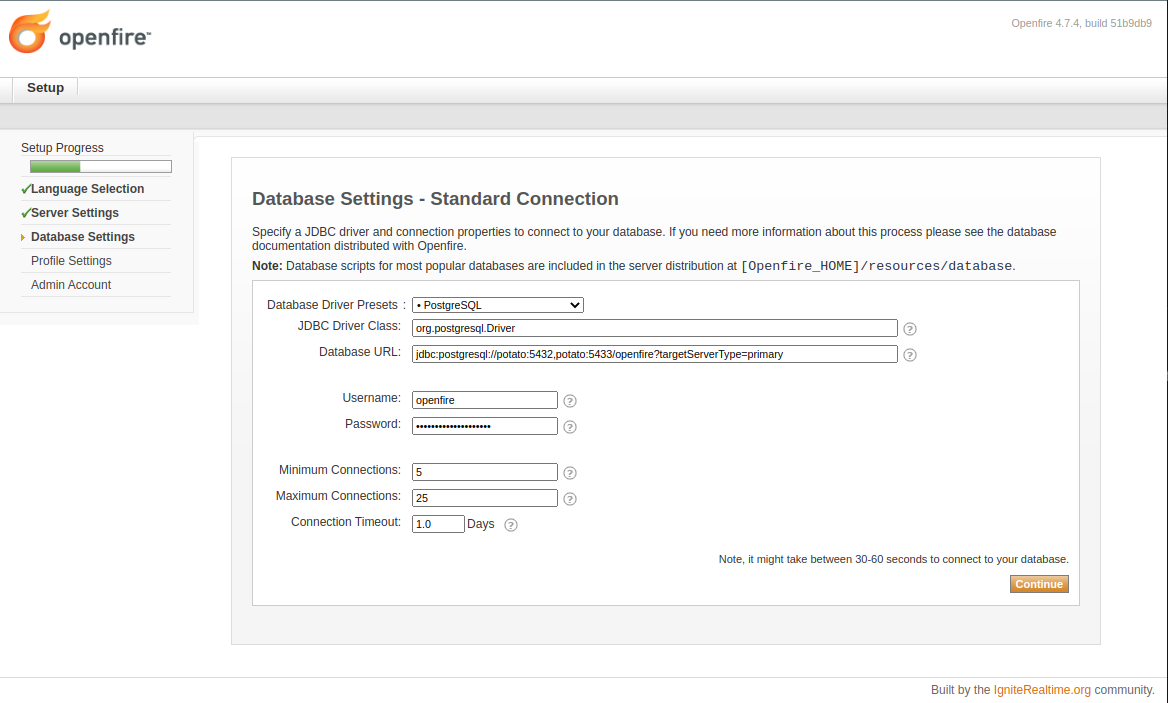
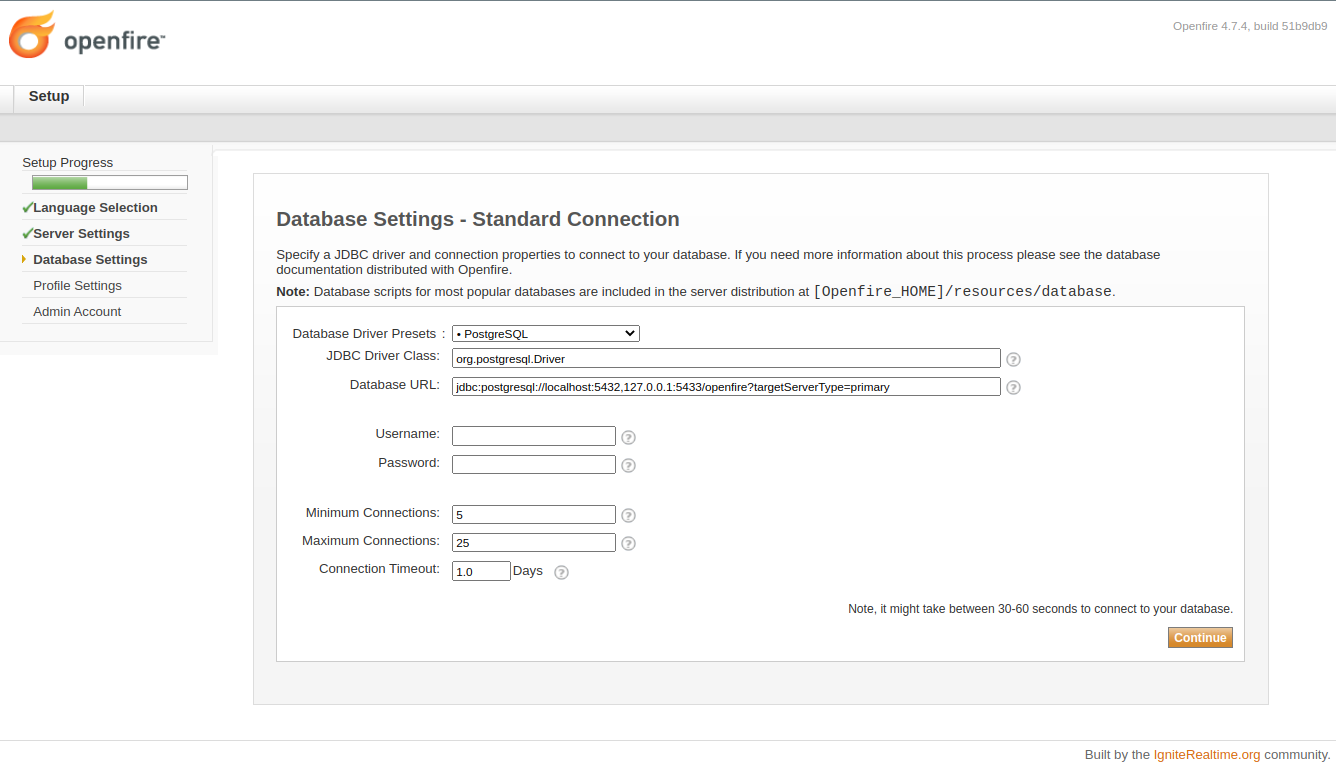
OF-2510: Make hostname clearer

diff --git a/documentation/db-clustering-guide.html b/documentation/db-clustering-guide.html
@@ -393,20 +393,14 @@ services:
         </fieldset>
 
         <p>
-            Given the above PostgreSQL docker setup, and the above JDBC example, assuming the containers are running on a
-            machine named DOCKERHOST, the correct JDBC connection string would be:
+            Given the above PostgreSQL docker setup, and the above JDBC example, assuming the containers are running on
+            the local machine, a correct JDBC connection string might look like this:
+
+            <figure>
+                <a href="images/setup_pgcluster_jdbc.png"><img src="images/setup_pgcluster_jdbc.png" alt="Configuring Openfire to connect to a PostgreSQL cluster"></a>
+                <figcaption>Configuring Openfire to connect to a PostgreSQL cluster</figcaption>
+            </figure>
         </p>
-
-        <fieldset>
-            <pre><code>jdbc:postgresql://DOCKERHOST:5432,DOCKERHOST:5433/openfire?targetServerType=primary</code></pre>
-        </fieldset>
-
-        <p>Example:</p>
-
-        <figure>
-            <a href="images/setup_pgcluster_jdbc.png"><img src="images/setup_pgcluster_jdbc.png" alt="Configuring Openfire to connect to a PostgreSQL cluster"></a>
-            <figcaption>Configuring Openfire to connect to a PostgreSQL cluster</figcaption>
-        </figure>
 
         <p>
             Alternatively, if configuring via autosetup in openfire.xml:
@@ -422,7 +416,7 @@ services:
             &lt;mode&gt;standard&lt;/mode&gt;
             &lt;defaultProvider&gt;
               &lt;driver&gt;org.postgresql.Driver&lt;/driver&gt;
-              &lt;serverURL&gt;jdbc:postgresql://potato:5432,potato:5433/openfire?targetServerType=primary&lt;/serverURL&gt;
+              &lt;serverURL&gt;jdbc:postgresql://localhost:5432,127.0.0.1:5433/openfire?targetServerType=primary&lt;/serverURL&gt;
               &lt;username&gt;openfire&lt;/username&gt;
               &lt;password&gt;openfireuserpassword&lt;/password&gt;
               &lt;minConnections&gt;5&lt;/minConnections&gt;
